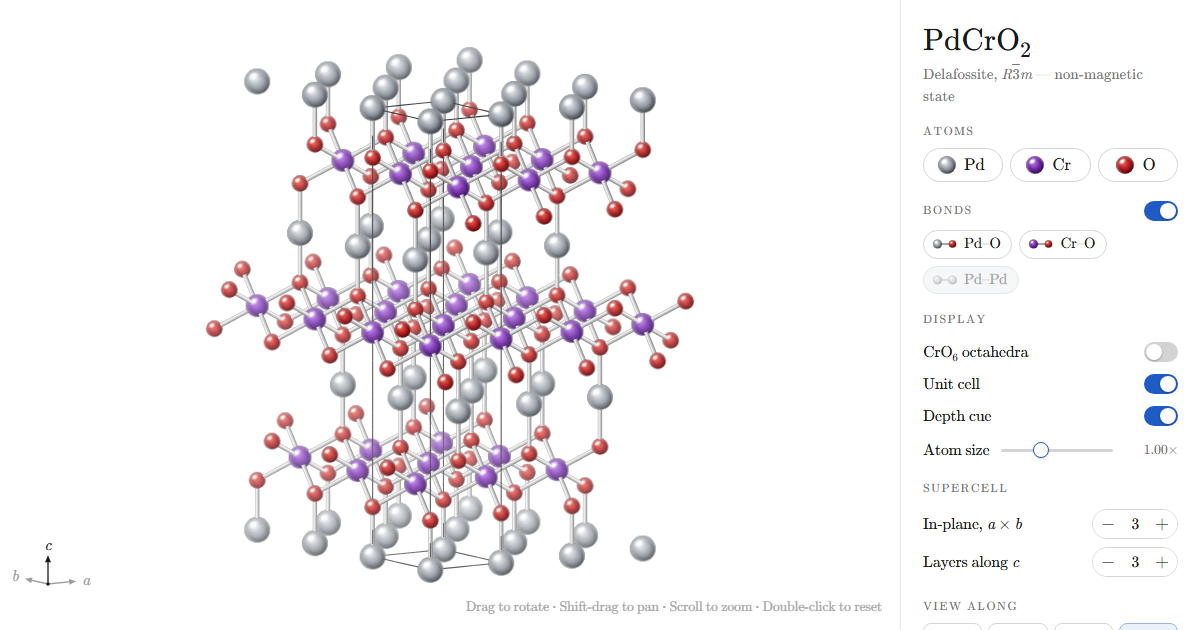
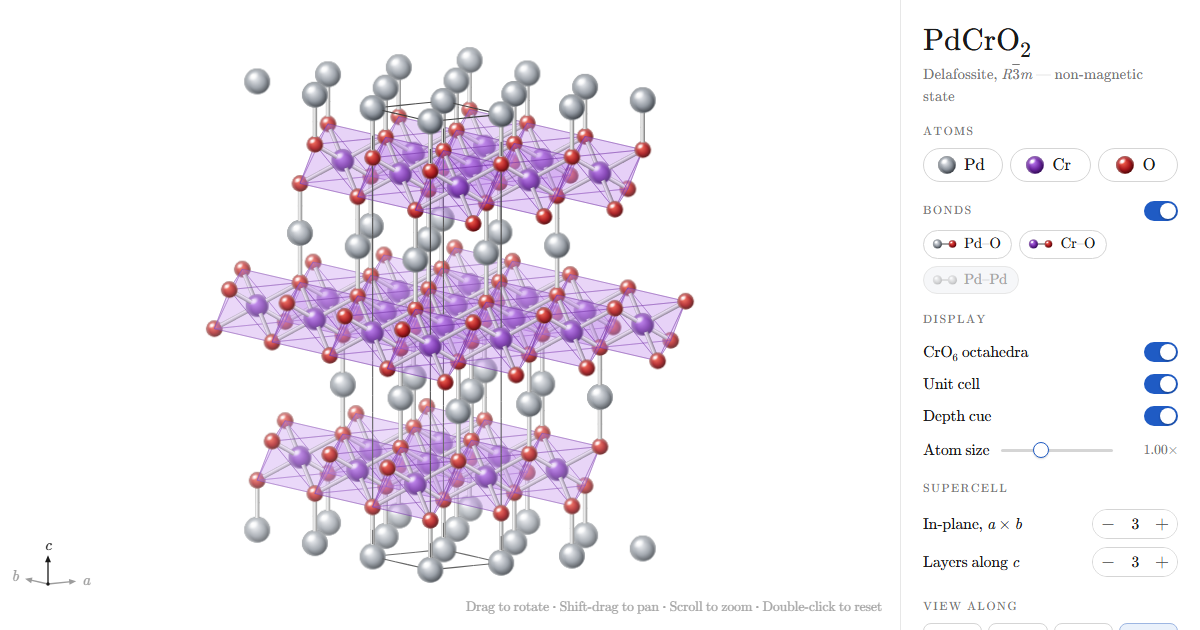
Show CrO6 octahedra by default in the structure viewer (#4)
Turns the octahedra switch on at page load and refreshes the
link-preview image to match.

diff --git a/index.html b/index.html
@@ -174,7 +174,7 @@
 
     <section>
       <h2>Display</h2>
-      <label class="opt"><span>CrO<sub>6</sub> octahedra</span><input type="checkbox" class="switch" id="octa"></label>
+      <label class="opt"><span>CrO<sub>6</sub> octahedra</span><input type="checkbox" class="switch" id="octa" checked></label>
       <label class="opt"><span>Unit cell</span><input type="checkbox" class="switch" id="cell" checked></label>
       <label class="opt"><span>Depth cue</span><input type="checkbox" class="switch" id="fog" checked></label>
       <label class="range"><span>Atom size</span><input type="range" id="size" min="0.5" max="2" step="0.05" value="1"><output id="sizeOut">1.00×</output></label>
@@ -291,7 +291,7 @@
   const S = {
     show: { Pd: true, Cr: true, O: true },
     bonds: true, bondType: { 'Pd-O': true, 'Cr-O': true, 'Pd-Pd': false },
-    octa: false, cell: true, fog: true, size: 1,
+    octa: true, cell: true, fog: true, size: 1,
     n: 3, k: 3,
     phi: VIEWS.reset.phi, theta: VIEWS.reset.theta,
     scale: 30, panX: 0, panY: 0,
